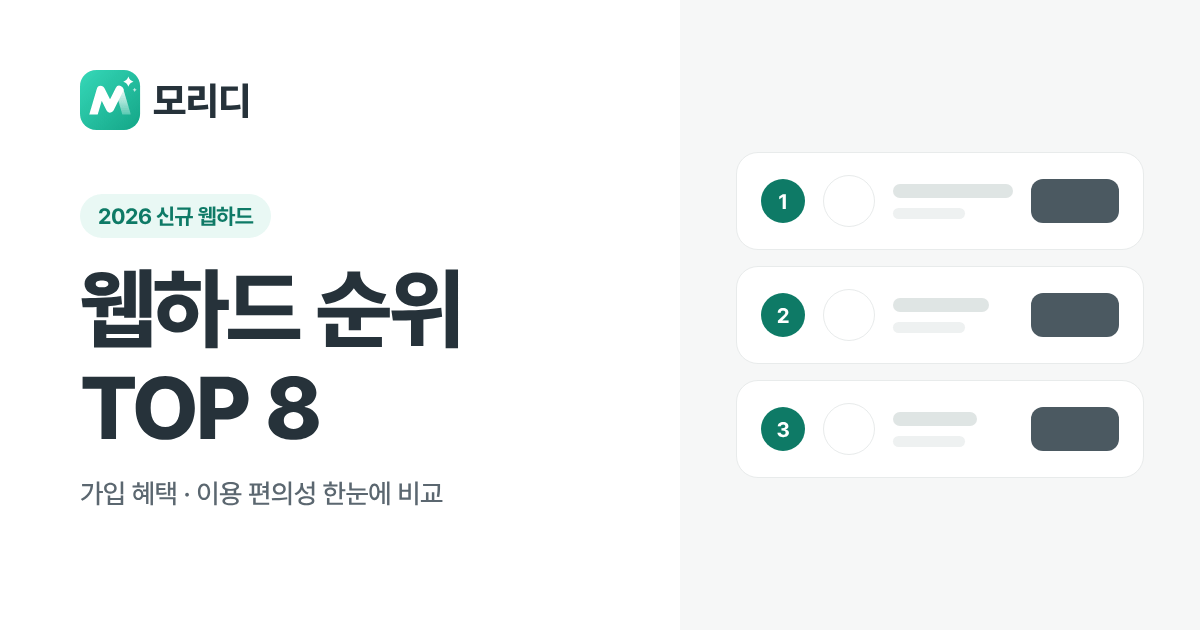
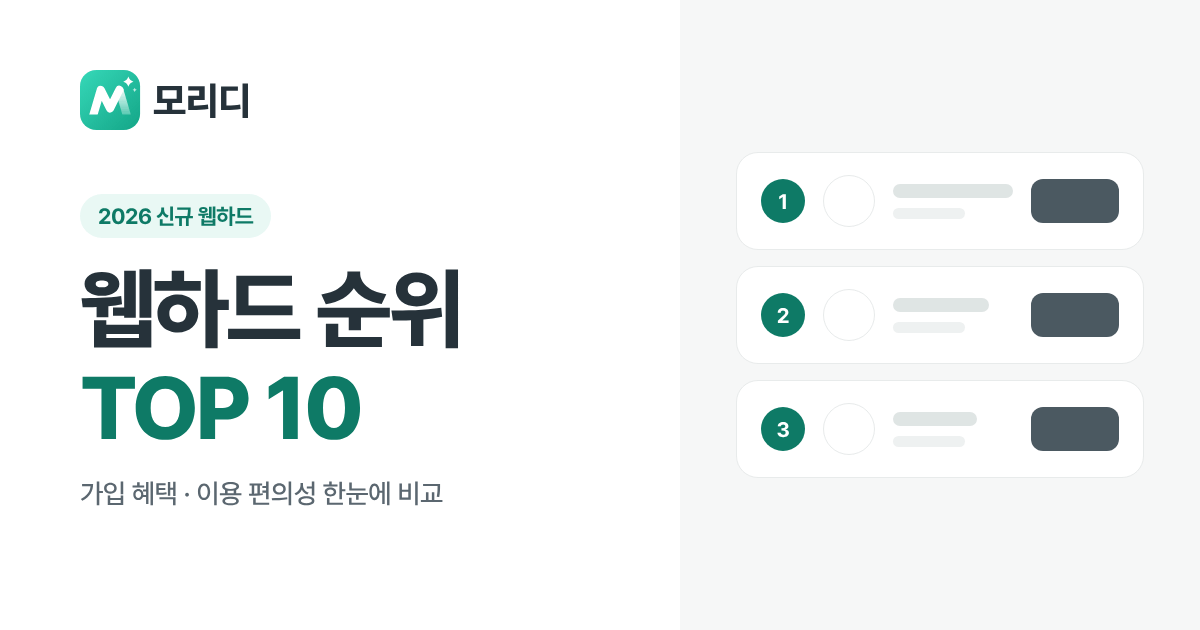
순위를 10위로 늘리고 히어로 제목을 키움
- data/services.json에 업체 후보를 모두 두고 shown(보여줄 수),
  blocked(뺄 곳), required(넣을 곳)로 화면에 나올 10곳을 고른다.
- 예스파일, 파일보고, 애플파일을 추가했다. 파일스타는 데이터에 남고
  이번 10위 안에는 들지 않는다.
- 히어로 제목을 56px로 키우고 TOP 수를 짙은 민트로 강조했다.
- 공유 미리보기 이미지를 TOP 10으로 바꿨다.

Claude-Session: https://claude.ai/code/session_016Hd2a5mFm7cV3qRqFEP7Z2

Changed region(s): [[0.0617, 0.573, 0.3083, 0.6937]]

diff --git a/src/style.css b/src/style.css
@@ -105,32 +105,38 @@ summary:focus-visible {
 }
 
 .hero {
-  padding: 56px 0 40px;
+  padding: 64px 0 52px;
   text-align: center;
 }
 
 .badge {
   display: inline-block;
-  padding: 6px 12px;
+  padding: 7px 14px;
   border-radius: 99px;
   background: var(--mint-soft);
   color: var(--mint-deep);
-  font-size: 13px;
+  font-size: 14px;
   font-weight: 700;
 }
 
 .hero h1 {
-  margin: 14px 0 10px;
-  font-size: 40px;
+  margin: 18px 0 14px;
+  font-size: 56px;
   font-weight: 800;
-  letter-spacing: -1.2px;
-  line-height: 1.25;
+  letter-spacing: -2px;
+  line-height: 1.2;
+}
+
+.hero h1 em {
+  color: var(--mint-deep);
+  font-style: normal;
 }
 
 .hero p {
   margin: 0;
   color: var(--sub);
-  font-size: 16px;
+  font-size: 18px;
+  text-wrap: balance;
 }
 
 .board {
@@ -482,11 +488,17 @@ summary:focus-visible {
   }
 
   .hero {
-    padding: 36px 0 28px;
+    padding: 40px 0 32px;
+  }
+
+  .badge {
+    font-size: 13px;
   }
 
   .hero h1 {
-    font-size: 30px;
+    margin: 14px 0 10px;
+    font-size: 38px;
+    letter-spacing: -1.4px;
   }
 
   .hero p {

diff --git a/src/index.html b/src/index.html
@@ -42,7 +42,7 @@
     <main id="main">
       <section class="hero wrap">
         <span class="badge"><time datetime="{{UPDATED_ISO}}">{{UPDATED}}</time> 기준</span>
-        <h1>웹하드 순위 TOP {{COUNT}}</h1>
+        <h1>웹하드 순위 <em>TOP {{COUNT}}</em></h1>
         <p>가입 혜택과 이용 편의성을 기준으로 비교한 2026년 신규 웹하드 순위예요.</p>
       </section>
 

diff --git a/docs/운영.md b/docs/운영.md
@@ -2,7 +2,18 @@
 
 ## 순위 바꾸기
 
-`data/services.json`의 `items` 순서가 곧 순위다. 1~3위는 강조 색으로 나온다.
+`data/services.json`의 `items`에 업체 후보를 모두 둔다. 빌드는 그중 `shown`개(지금 10개)를 골라 `items` 순서대로 보여준다.
+1~3위는 강조 색으로 나온다.
+
+| 항목 | 뜻 |
+| --- | --- |
+| `shown` | 화면에 보여줄 업체 수 |
+| `blocked` | 순위에 넣지 않는 업체 이름. `items`에 있어도 빠진다. |
+| `required` | 반드시 넣는 업체 이름. `items`에 있어야 하고, 순서가 뒤라도 `shown`개 안에 들어간다. 그만큼 뒤쪽 업체가 빠진다. |
+
+순위에서 빠진 업체는 데이터에만 남는다. 화면, 구조화 데이터, `llms.txt`, 이동 페이지에는 나오지 않는다.
+
+업체마다 아래 필드를 적는다.
 
 | 필드 | 뜻 |
 | --- | --- |
@@ -17,7 +28,7 @@
 
 `updatedAt`은 내용을 실제로 점검한 날로 바꾼다. 순위 위 기준일, 구조화 데이터, sitemap의 `lastmod`에 함께 들어간다.
 
-업체를 빼면 그 이동 페이지도 빌드에서 사라진다. 다른 곳에 링크가 남아 있으면 404가 되니, 뺀 업체는 이동 페이지를 남길지 먼저 정한다.
+업체가 순위에서 빠지면 그 이동 페이지도 빌드에서 사라진다. 다른 곳에 링크가 남아 있으면 404가 되니, 뺀 업체는 이동 페이지를 남길지 먼저 정한다.
 
 ## 자주 묻는 질문
 

diff --git a/CLAUDE.md b/CLAUDE.md
@@ -51,7 +51,7 @@
 ## 이 저장소
 
 - 의존성 없는 정적 사이트다. `scripts/build.mjs`가 `src/`와 `data/`로 `_site/`를 만들고, `.github/workflows/pages.yml`이 그 결과를 GitHub Pages로 배포한다. 운영 방법은 `docs/운영.md`에 있다.
-- 순위는 `data/services.json`의 `items` 순서, 자주 묻는 질문은 `data/faq.json`이다. 순위 목록, FAQ, 구조화 데이터, 이동 페이지(`go/`), `robots.txt`, `sitemap.*`, `llms.txt`는 빌드가 만들므로 `src/`에 두지 않는다.
+- 순위는 `data/services.json`의 `items` 순서다. `shown`개만 보여주고, `blocked`는 빼고 `required`는 반드시 넣는다. 자주 묻는 질문은 `data/faq.json`이다. 순위 목록, FAQ, 구조화 데이터, 이동 페이지(`go/`), `robots.txt`, `sitemap.*`, `llms.txt`는 빌드가 만들므로 `src/`에 두지 않는다.
 - 머리글과 바닥글은 `src/_partials/`에 한 벌만 두고 모든 페이지가 함께 쓴다. 스타일은 `src/style.css` 하나다.
 - `src/og.png`(공유 미리보기 1200×630)와 `src/apple-touch-icon.png`도 sharp로 다시 저장한 파일이다. 바꿀 때도 sharp로 다시 저장한다.
 - `pages.yml`이 `base_url`을 `SITE_URL` 환경 변수로 넘기면 빌드가 `https://site-url.invalid` 자리표시를 실제 주소로 바꾼다. 로컬에서 `SITE_URL` 없이 빌드하면 자리표시가 그대로 남는다.
